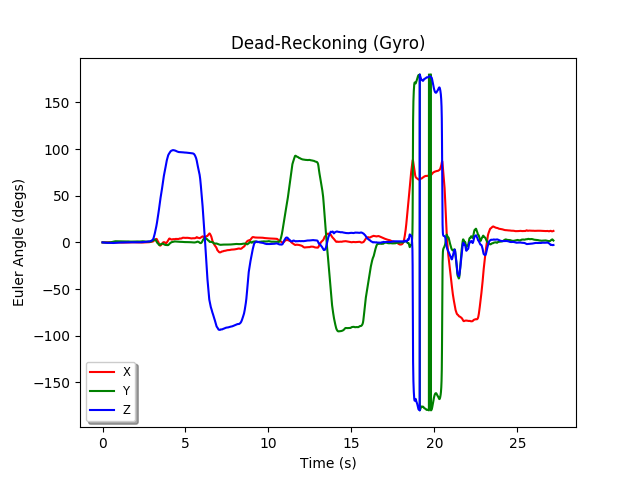
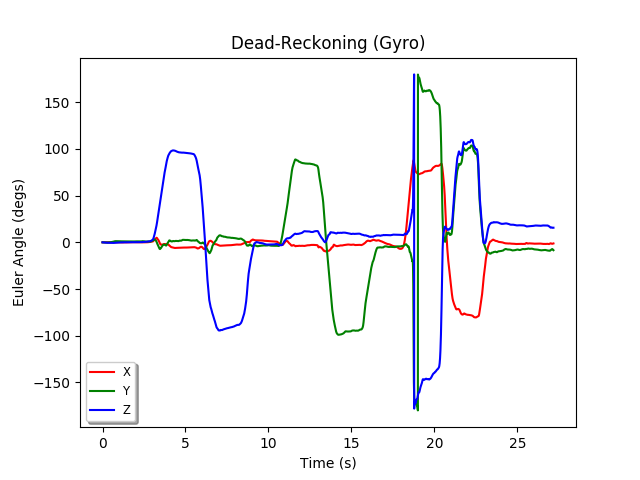
better acc correction still

diff --git a/data_corrector.py b/data_corrector.py
@@ -82,6 +82,7 @@ def reading_to_qtrn(reading, prev_sample_time):
     rot_axis = np.repeat(1/np.linalg.norm(reading[1:]),3) * reading[1:]
     return axis_angle_to_qtrn(rot_axis, rot_angle)
 
+
 def qtrn_to_euler(qtrn):
     """converts a numpy quaternion array [a b c d] to a raw euler angle array [x y z]"""
     (a, b, c, d) = qtrn
@@ -125,7 +126,7 @@ def gyro_dead_reckoning(imu_data):
         # update the position using the gyroscope
         delta_qtrn = reading_to_qtrn(point[gyro_range], prev_sample_time)
         prev_sample_time = point[0]
-        curr_pos = qtrn_mult(curr_pos, delta_qtrn)
+        curr_pos = qtrn_mult(delta_qtrn, curr_pos)
 
         gyro_data.append([prev_sample_time] + curr_pos.tolist())
 
@@ -146,7 +147,7 @@ def gyro_acc_positioning(imu_data):
     acc_range = range(4,7)
 
     # z is clearly the up vector based on the raw accelerometer readings
-    up_vec = np.array([0,0,0,1])
+    up_vec = np.array([0,0,1])
     print("up vec:",up_vec)
     
     # [[time,x,y,z]]
@@ -159,36 +160,30 @@ def gyro_acc_positioning(imu_data):
         ### calculate initial position only using the gyro
         delta_qtrn = reading_to_qtrn(point[gyro_range], prev_sample_time)
         prev_sample_time = point[0]
-        curr_pos = qtrn_mult(curr_pos, delta_qtrn)
+        curr_pos = qtrn_mult(delta_qtrn, curr_pos)
 
         ### PITCH/TILT CORRECTION
         ### convert acc data to the global frame
-        # (this is the inverse of the head orientation!)
-        # therefore, we compute q^{-1}•p•q rather than q•p•q^{-1}
-        #first_acc = qtrn_mult(qtrn_mult(qtrn_conj(curr_pos), first_acc), curr_pos)
-        acc_qtrn = np.insert(point[acc_range], 0, 0)# - first_acc
+        acc_qtrn = np.insert(point[acc_range], 0, 0)
         acc_qtrn = qtrn_mult(qtrn_mult(curr_pos, acc_qtrn), qtrn_conj(curr_pos))
         acc_vec = acc_qtrn[1:]
-        
-        #up_vec = qtrn_mult(qtrn_mult(qtrn_conj(curr_pos), up_vec), curr_pos)
         ### calculate the tilt error
         # x = index 0, z = index 2
         tilt_error_axis = np.array([acc_vec[2], 0.0, -acc_vec[0]])
-        cos_ang = np.dot(up_vec[1:], acc_vec)
+        cos_ang = np.dot(up_vec, acc_vec)
         # manage rounding errors, there should only be little deviation here
         cos_ang = cos_ang if cos_ang > -1 else -1
         cos_ang = cos_ang if cos_ang < +1 else +1
         tilt_error_angle = np.arccos(cos_ang)
         print("error angle:",tilt_error_angle)
         ### Repair tilt using the comp filter
-        comp_filter = axis_angle_to_qtrn(tilt_error_axis, ALPHA_ACC*tilt_error_angle)
+        comp_filter = axis_angle_to_qtrn(tilt_error_axis, -ALPHA_ACC*tilt_error_angle)
         # fix our current estimated position using acceleration data
-        curr_pos = qtrn_mult(curr_pos, comp_filter)
+        curr_pos = qtrn_mult(comp_filter, curr_pos)
 
         gyro_data.append([prev_sample_time] + curr_pos.tolist())
 
     print("> End orientation:",curr_pos)
-
     print("end check:",np.linalg.norm(curr_pos))
     return gyro_data
 
@@ -205,6 +200,7 @@ def gyro_acc_mag_positioning(imu_data):
     gyro_range = range(0,4)
     acc_range = range(4,7)
     mag_range = range(7,10)
+
     ref_vector = np.array([0,1,0], dtype=np.float32)
 
     # take reference measurement for yaw correction
